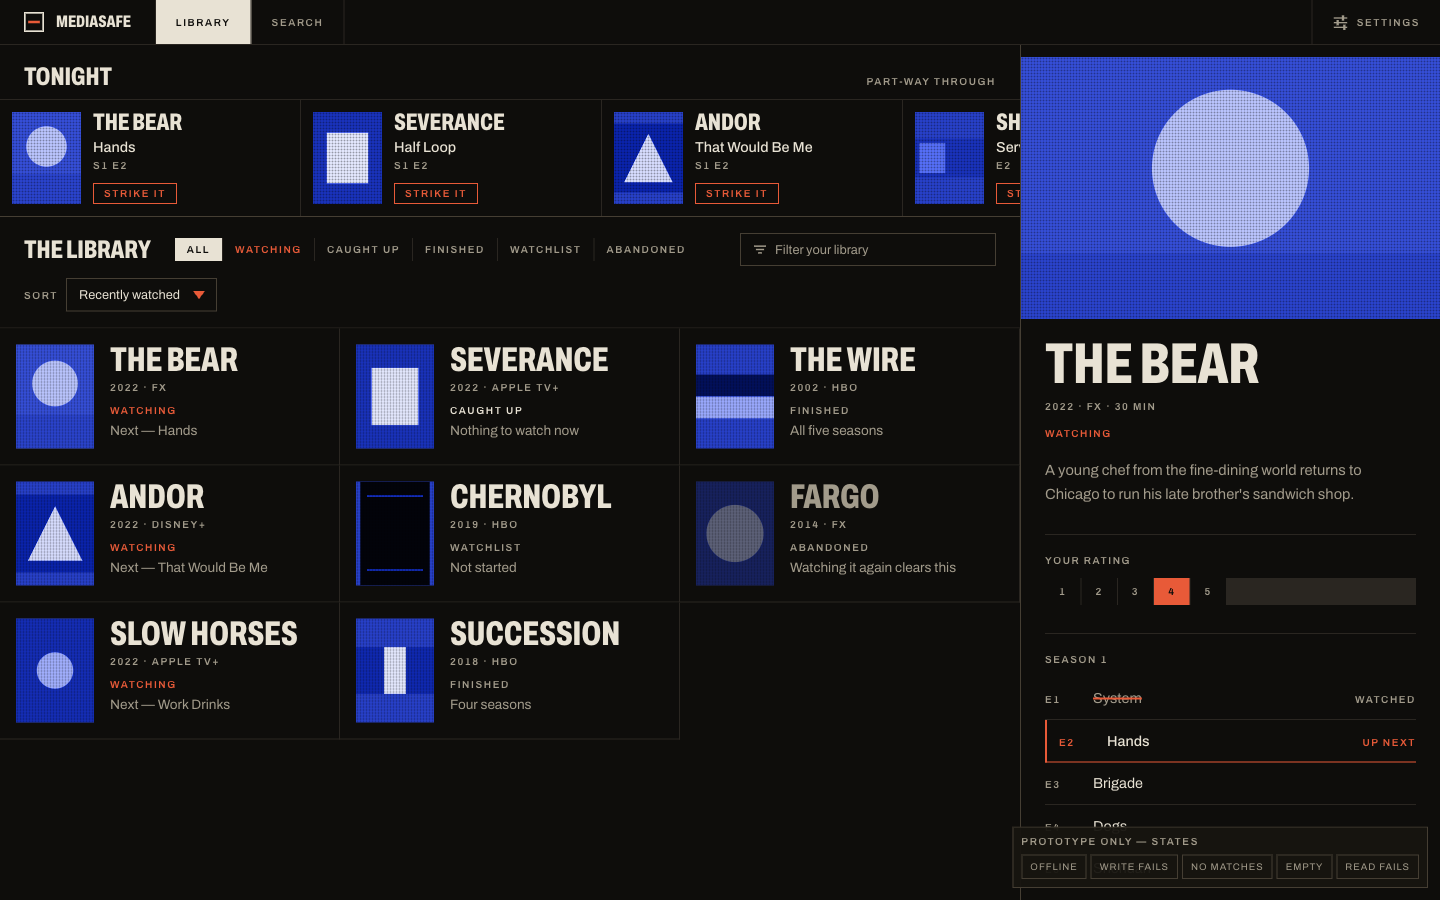
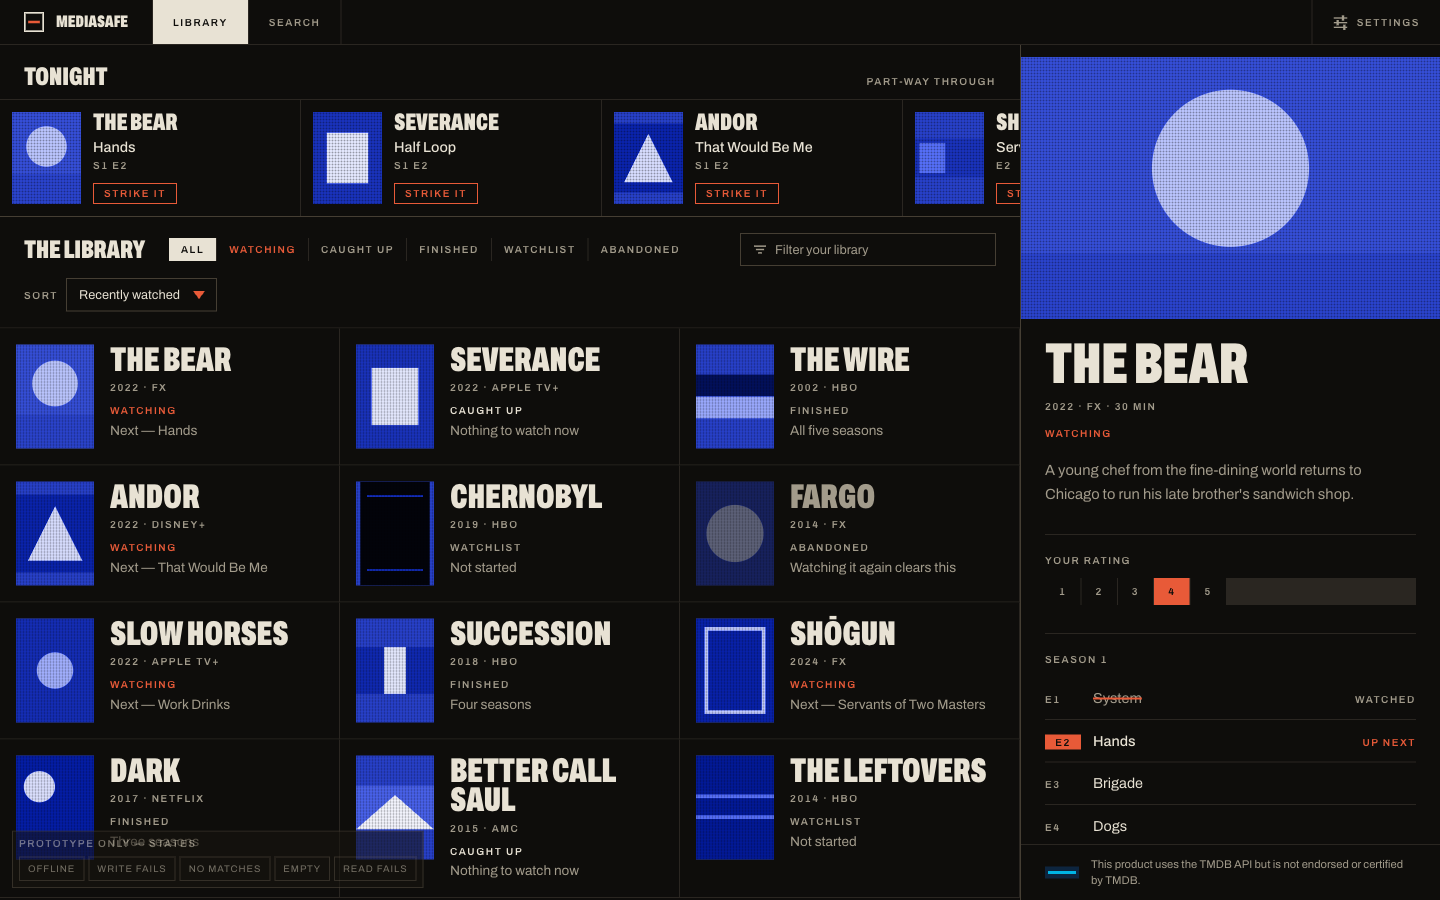
Apply finish-review fix batch to the Repertory Bill prototype (#12)
The finish review returned disposition: fix. Seven of eight material fixes
are resolved, plus one regression the batch itself introduced.

- The phone's recording control was in the upper third, not the thumb arc —
  the primary action of the highest-frequency scene, and a contract promise.
  The plate now carries the entry at a fixed measure and the control follows,
  landing it in the thumb zone.
- Floor violation: the up-next episode row used a coloured left border above
  1px, which the craft floor refuses. It is now a filled spot block.
- TMDB attribution never appeared in either inspected viewport; it sat below
  the fold of the pane's scroll container. It is a binding obligation, so it
  is pinned to the foot of the pane. The first fix put the prototype state
  scaffolding on top of it; the scaffolding moved.
- The bill ended in an orphan cell and dead ink. Four more entries fill it.
- Display compression raised to the world's real register (width 62, weight
  900) — the review found the lettering correct but tame.

The contract's four-column claim was corrected to three at desktop and four
above 1536px. That is the record matching the build, not the build being
defended: the ambition was a dense multi-column bill, and column count at a
given width is a mechanical consequence of the two-pane layout.

Open and accepted: the TONIGHT strip clips its overflow card mid-title,
which is intrinsic to a horizontal scroller.
[…]

diff --git a/docs/design/prototypes/repertory-bill.html b/docs/design/prototypes/repertory-bill.html
@@ -64,7 +64,7 @@
 
   @utility bill-title {
     font-family: var(--font-display);
-    font-variation-settings: "wdth" 68, "wght" 800;
+    font-variation-settings: "wdth" 62, "wght" 900;
     text-transform: uppercase;
     letter-spacing: -0.005em;
     line-height: 0.86;
@@ -123,10 +123,11 @@
   line, and puts the phone down. At a desk he reads the bill and inspects candidates in
   the programme note beside it, never navigating away from the season.
   FIRST VIEWPORT: Desktop — press mark and two nav items on a hairline; TONIGHT as a
-  horizontal strip of up-next entries; the bill as a four-column grid of programme
-  entries beneath filter chips; a fixed 420px programme note on the right, replaced not
-  navigated. Phone — TONIGHT is the whole screen, one dominant entry with the recording
-  control in the thumb arc, three tabs at the foot.
+  horizontal strip of up-next entries; the bill as a three-column grid of programme
+  entries beneath filter chips, going to four above 1536px; a fixed 420px programme note
+  on the right, replaced not navigated, with TMDB attribution pinned to its foot. Phone —
+  TONIGHT is the whole screen, one dominant entry filling it with the recording control
+  pinned to the foot of that screen in the thumb arc, three tabs beneath.
   FORM: The Repertory Bill; candidate 6 of 7 on the grounded list; seed key 46524716.
   FINISH: unreviewed and undocumented is unfinished; this build ends with the finish review, the verdict, DESIGN.md, and every shipping raster carrying its provenance
 -->
@@ -184,15 +185,21 @@
 
         <!-- PHONE: dominant deck -->
         <div class="lg:hidden">
-          <article id="dom-entry" class="relative border-t border-rule">
-            <div class="flex gap-4 px-4 py-4">
-              <div class="plate h-[132px] w-[99px] shrink-0">
-                <svg class="art" viewBox="0 0 300 400" role="img" aria-label="Synthetic placeholder artwork">
-                  <rect width="300" height="400" fill="#1b6f4a"/>
-                  <circle cx="150" cy="150" r="88" fill="#f2c53d"/>
-                  <rect y="270" width="300" height="130" fill="#c2341f"/>
-                </svg>
-              </div>
+          <!-- The phone's whole first screen. The recording control is pinned to
+               the foot of it, in the thumb arc — this is the scene the app exists
+               for, and the control may not sit up in the reading zone. -->
+          <article id="dom-entry" class="relative flex flex-col border-t border-rule">
+            <!-- the plate carries the entry at a fixed measure, as it would on a
+                 printed bill; title block and the recording control follow, which
+                 puts the control in the thumb arc without a forced full height. -->
+            <div class="plate aspect-[5/4] w-full shrink-0">
+              <svg class="art" viewBox="0 0 300 400" preserveAspectRatio="xMidYMid slice" role="img" aria-label="Synthetic placeholder artwork">
+                <rect width="300" height="400" fill="#1b6f4a"/>
+                <circle cx="150" cy="150" r="88" fill="#f2c53d"/>
+                <rect y="270" width="300" height="130" fill="#c2341f"/>
+              </svg>
+            </div>
+            <div class="flex shrink-0 gap-4 px-4 py-4">
               <div class="relative min-w-0 flex-1">
                 <h2 class="bill-title text-[2.6rem]">The Bear</h2>
                 <div class="relative mt-2 inline-block pr-1">
@@ -204,9 +211,9 @@
                 <span class="stamp -right-1 top-0 border-2 border-signal px-2 py-1 text-signal code-line" aria-hidden="true">Watched</span>
               </div>
             </div>
-            <!-- recording control in the thumb arc -->
+            <!-- recording control, pinned to the foot of the first screen -->
             <button type="button" data-mark="dom-entry"
-              class="flex w-full items-center justify-center gap-3 border-t-2 border-signal bg-signal py-4 text-ink transition-[filter] duration-200 active:brightness-90">
+              class="flex w-full shrink-0 items-center justify-center gap-3 border-t-2 border-signal bg-signal py-5 text-ink transition-[filter] duration-200 active:brightness-90">
               <svg viewBox="0 0 24 24" class="h-4 w-4" aria-hidden="true"><rect x="2" y="10.5" width="20" height="3" fill="currentColor"/></svg>
               <span class="code-line">Strike it — mark watched</span>
             </button>
@@ -350,6 +357,26 @@
             <div class="plate h-[104px] w-[78px] shrink-0"><svg class="art" viewBox="0 0 500 300" aria-hidden="true"><rect width="500" height="300" fill="#123c69"/><rect x="180" y="0" width="140" height="300" fill="#eee2dc"/></svg></div>
             <div class="min-w-0 flex-1"><p class="bill-title text-[2.15rem]">Succession</p><p class="code-line mt-2 text-stock-dim" data-numeric>2018 · HBO</p><p class="code-line mt-3 text-stock-dim">Finished</p><p class="mt-1 truncate text-[0.85rem] text-stock-dim">Four seasons</p></div>
           </button></li>
+
+          <li class="border-b border-r border-rule bg-ink"><button type="button" class="group flex w-full gap-4 p-4 text-left transition-colors hover:bg-ink-raised">
+            <div class="plate h-[104px] w-[78px] shrink-0"><svg class="art" viewBox="0 0 300 400" aria-hidden="true"><rect width="300" height="400" fill="#0d3b2e"/><rect x="40" y="40" width="220" height="320" fill="none" stroke="#e0c9a6" stroke-width="14"/></svg></div>
+            <div class="min-w-0 flex-1"><p class="bill-title text-[2.15rem]">Shōgun</p><p class="code-line mt-2 text-stock-dim" data-numeric>2024 · FX</p><p class="code-line mt-3 text-signal">Watching</p><p class="mt-1 truncate text-[0.85rem] text-stock-dim">Next — Servants of Two Masters</p></div>
+          </button></li>
+
+          <li class="border-b border-r border-rule bg-ink"><button type="button" class="group flex w-full gap-4 p-4 text-left transition-colors hover:bg-ink-raised">
+            <div class="plate h-[104px] w-[78px] shrink-0"><svg class="art" viewBox="0 0 300 400" aria-hidden="true"><rect width="300" height="400" fill="#5b1e3d"/><circle cx="90" cy="120" r="60" fill="#ffd9a0"/><rect x="0" y="300" width="300" height="100" fill="#2b2b2b"/></svg></div>
+            <div class="min-w-0 flex-1"><p class="bill-title text-[2.15rem]">Dark</p><p class="code-line mt-2 text-stock-dim" data-numeric>2017 · Netflix</p><p class="code-line mt-3 text-stock-dim">Finished</p><p class="mt-1 truncate text-[0.85rem] text-stock-dim">Three seasons</p></div>
+          </button></li>
+
+          <li class="border-b border-r border-rule bg-ink"><button type="button" class="group flex w-full gap-4 p-4 text-left transition-colors hover:bg-ink-raised">
+            <div class="plate h-[104px] w-[78px] shrink-0"><svg class="art" viewBox="0 0 500 280" aria-hidden="true"><rect width="500" height="280" fill="#8c6b1f"/><polygon points="0,280 250,60 500,280" fill="#f5efe0"/></svg></div>
+            <div class="min-w-0 flex-1"><p class="bill-title text-[2.15rem]">Better Call Saul</p><p class="code-line mt-2 text-stock-dim" data-numeric>2015 · AMC</p><p class="code-line mt-3 text-stock">Caught up</p><p class="mt-1 truncate text-[0.85rem] text-stock-dim">Nothing to watch now</p></div>
+          </button></li>
+
+          <li class="border-b border-r border-rule bg-ink"><button type="button" class="group flex w-full gap-4 p-4 text-left transition-colors hover:bg-ink-raised">
+            <div class="plate h-[104px] w-[78px] shrink-0"><svg class="art" viewBox="0 0 300 400" aria-hidden="true"><rect width="300" height="400" fill="#1d2a3a"/><rect x="0" y="150" width="300" height="14" fill="#ff5c39"/><rect x="0" y="230" width="300" height="14" fill="#ff5c39"/></svg></div>
+            <div class="min-w-0 flex-1"><p class="bill-title text-[2.15rem]">The Leftovers</p><p class="code-line mt-2 text-stock-dim" data-numeric>2014 · HBO</p><p class="code-line mt-3 text-stock-dim">Watchlist</p><p class="mt-1 truncate text-[0.85rem] text-stock-dim">Not started</p></div>
+          </button></li>
         </ol>
 
         <!-- zero matches for a filter — distinct from an empty library -->
@@ -380,7 +407,8 @@
 
     <!-- ══════════ RIGHT: the programme note (desktop only) ══════════ -->
     <aside class="hidden w-[420px] shrink-0 border-l border-rule-bold lg:block" aria-label="Programme note">
-      <div class="sticky top-[57px] max-h-[calc(100vh-57px)] overflow-y-auto">
+      <div class="sticky top-[57px] flex max-h-[calc(100vh-57px)] flex-col">
+        <div class="min-h-0 flex-1 overflow-y-auto">
         <div class="plate aspect-[16/10] w-full">
           <svg class="art" viewBox="0 0 640 400" aria-hidden="true"><rect width="640" height="400" fill="#1b6f4a"/><circle cx="320" cy="170" r="120" fill="#f2c53d"/><rect y="300" width="640" height="100" fill="#c2341f"/></svg>
         </div>
@@ -416,8 +444,8 @@
                 <span class="flex-1 text-[0.9rem] text-stock-dim line-through decoration-signal decoration-2">System</span>
                 <span class="code-line text-stock-dim">Watched</span>
               </li>
-              <li class="flex items-baseline gap-3 border-l-2 border-signal py-2.5 pl-3">
-                <span class="code-line w-9 shrink-0 text-signal" data-numeric>E2</span>
+              <li class="flex items-baseline gap-3 py-2.5">
+                <span class="code-line w-9 shrink-0 bg-signal px-1 py-0.5 text-center text-ink" data-numeric>E2</span>
                 <span class="flex-1 text-[0.9rem] font-medium">Hands</span>
                 <span class="code-line text-signal">Up next</span>
               </li>
@@ -427,11 +455,14 @@
             </ol>
           </div>
 
-          <!-- TMDB attribution: binding (#3) -->
-          <div class="mt-8 flex items-center gap-3 border-t border-rule pt-5">
-            <svg viewBox="0 0 34 12" class="h-3 w-auto shrink-0" role="img" aria-label="TMDB"><rect width="34" height="12" fill="#0d253f"/><rect x="3" y="4.5" width="28" height="3" fill="#01b4e4"/></svg>
-            <p class="text-[0.7rem] leading-snug text-stock-dim">This product uses the TMDB API but is not endorsed or certified by TMDB.</p>
-          </div>
+        </div>
+        </div>
+        <!-- TMDB attribution (#3): a binding obligation, so it is pinned to the
+             foot of the pane where borrowed data is on screen, never left to a
+             scroll position the reader may never reach. -->
+        <div class="flex shrink-0 items-center gap-3 border-t border-rule bg-ink px-6 py-3">
+          <svg viewBox="0 0 34 12" class="h-3 w-auto shrink-0" role="img" aria-label="TMDB"><rect width="34" height="12" fill="#0d253f"/><rect x="3" y="4.5" width="28" height="3" fill="#01b4e4"/></svg>
+          <p class="text-[0.7rem] leading-snug text-stock-dim">This product uses the TMDB API but is not endorsed or certified by TMDB.</p>
         </div>
       </div>
     </aside>
@@ -468,7 +499,7 @@
 </div>
 
 <!-- ══ Prototype scaffolding — NOT part of the design. Lets states be seen. ══ -->
-<div class="fixed bottom-20 right-3 z-50 border border-rule-bold bg-ink-raised/95 p-2 lg:bottom-3">
+<div class="fixed bottom-1 right-1 z-50 max-w-[46vw] border border-rule-bold bg-ink-raised/80 p-1.5 opacity-70 transition-opacity hover:opacity-100 lg:bottom-3 lg:left-3 lg:right-auto lg:max-w-none">
   <p class="code-line mb-2 text-stock-dim">Prototype only — states</p>
   <div class="flex flex-wrap gap-1">
     <button type="button" data-state="offline"       class="border border-rule-bold px-2 py-1 text-[0.6rem] uppercase tracking-widest text-stock-dim hover:text-stock">Offline</button>
